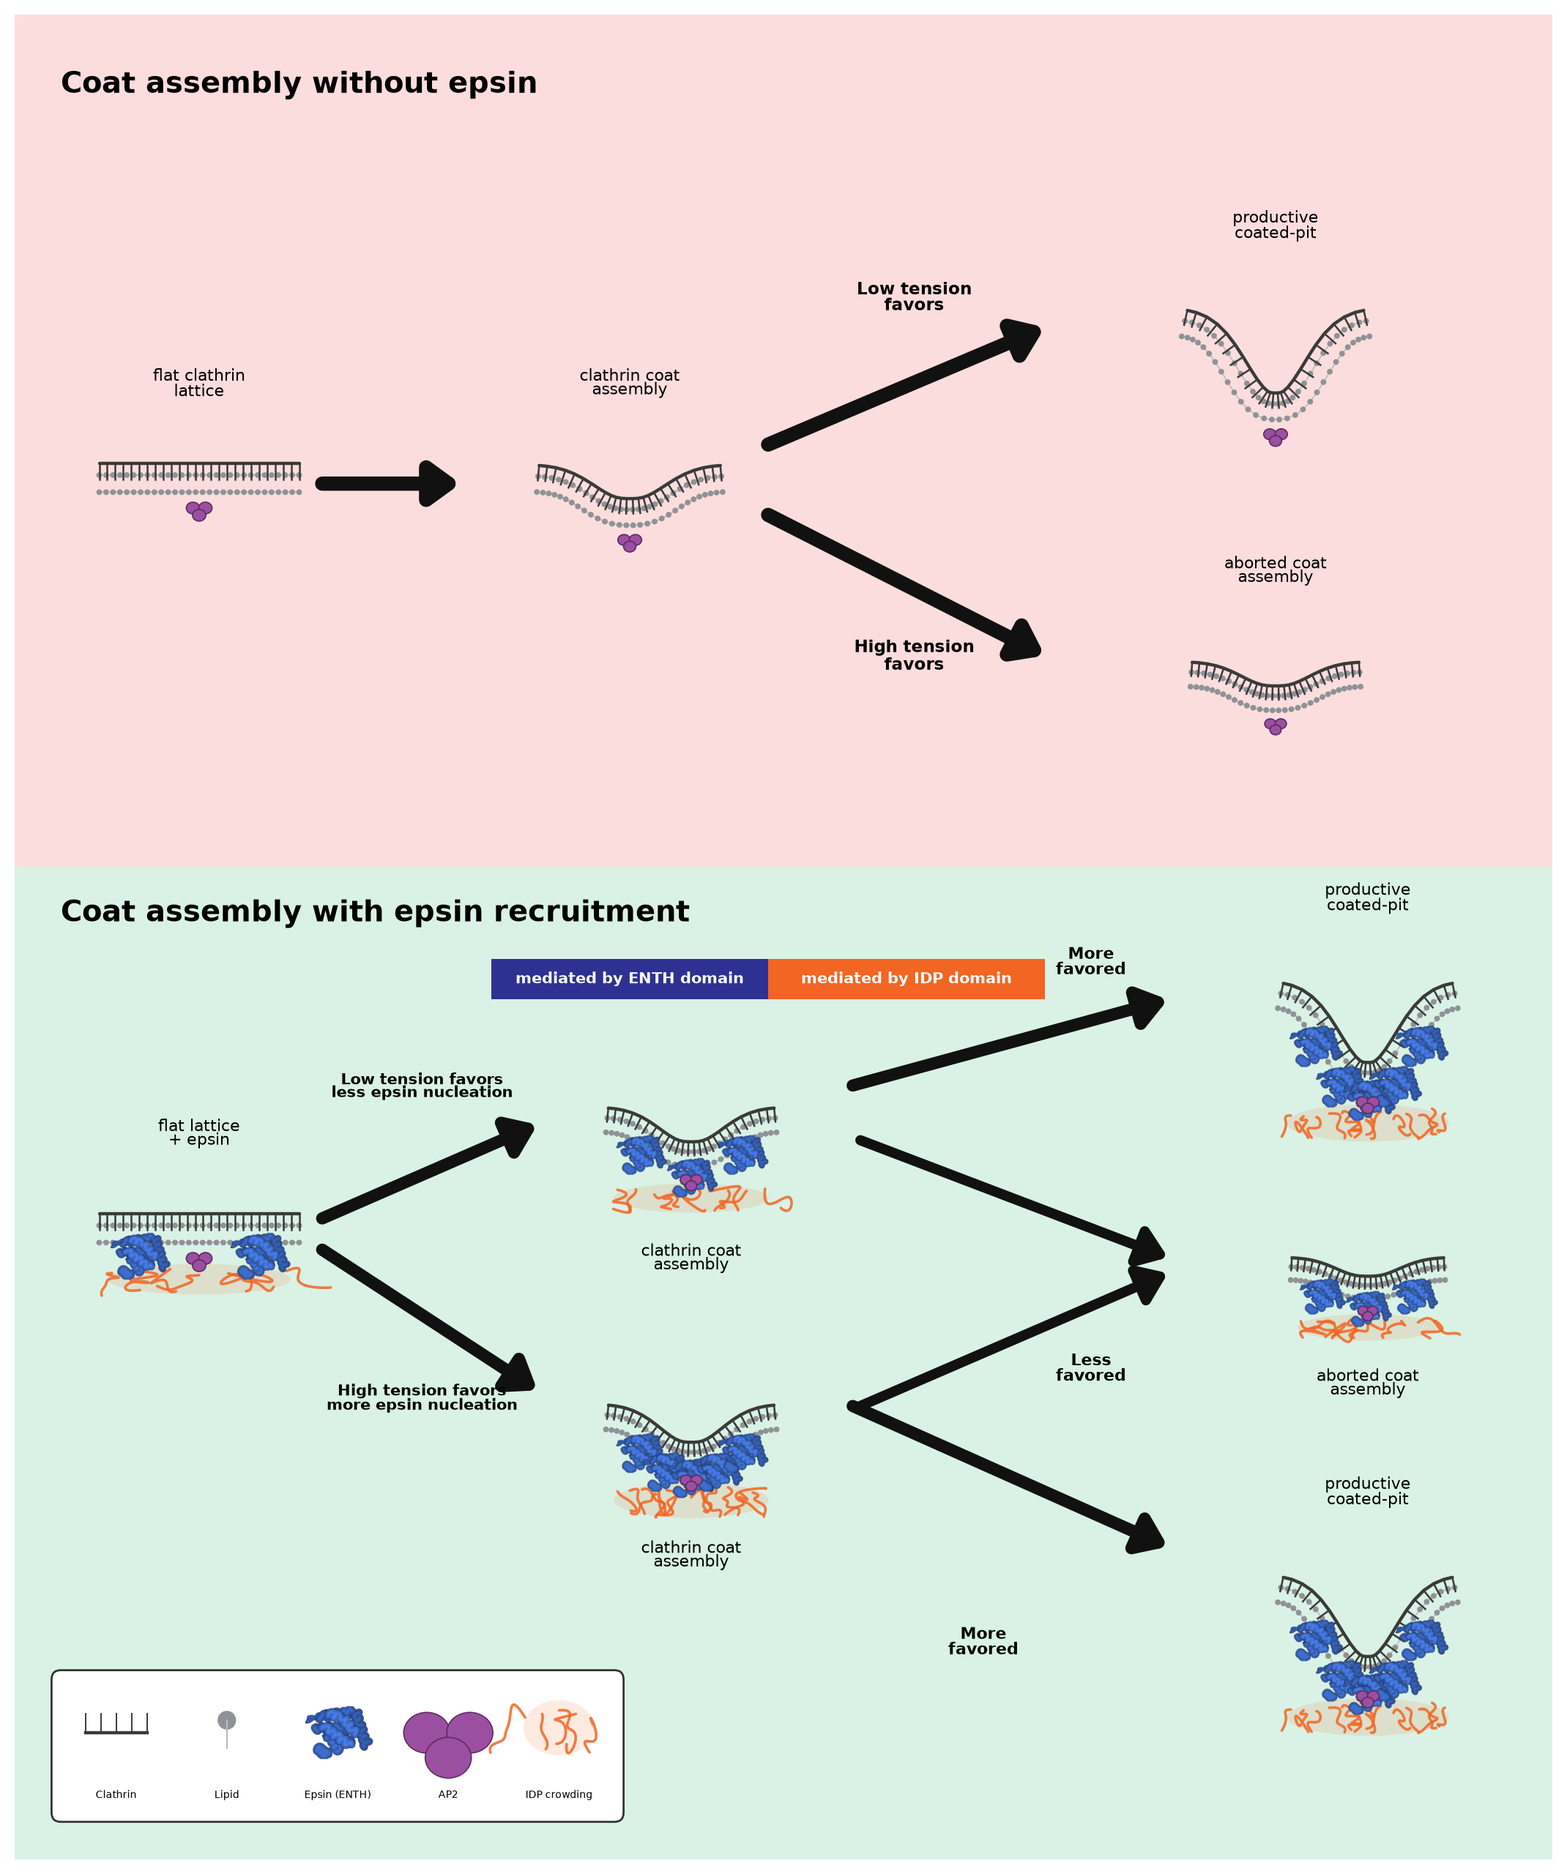
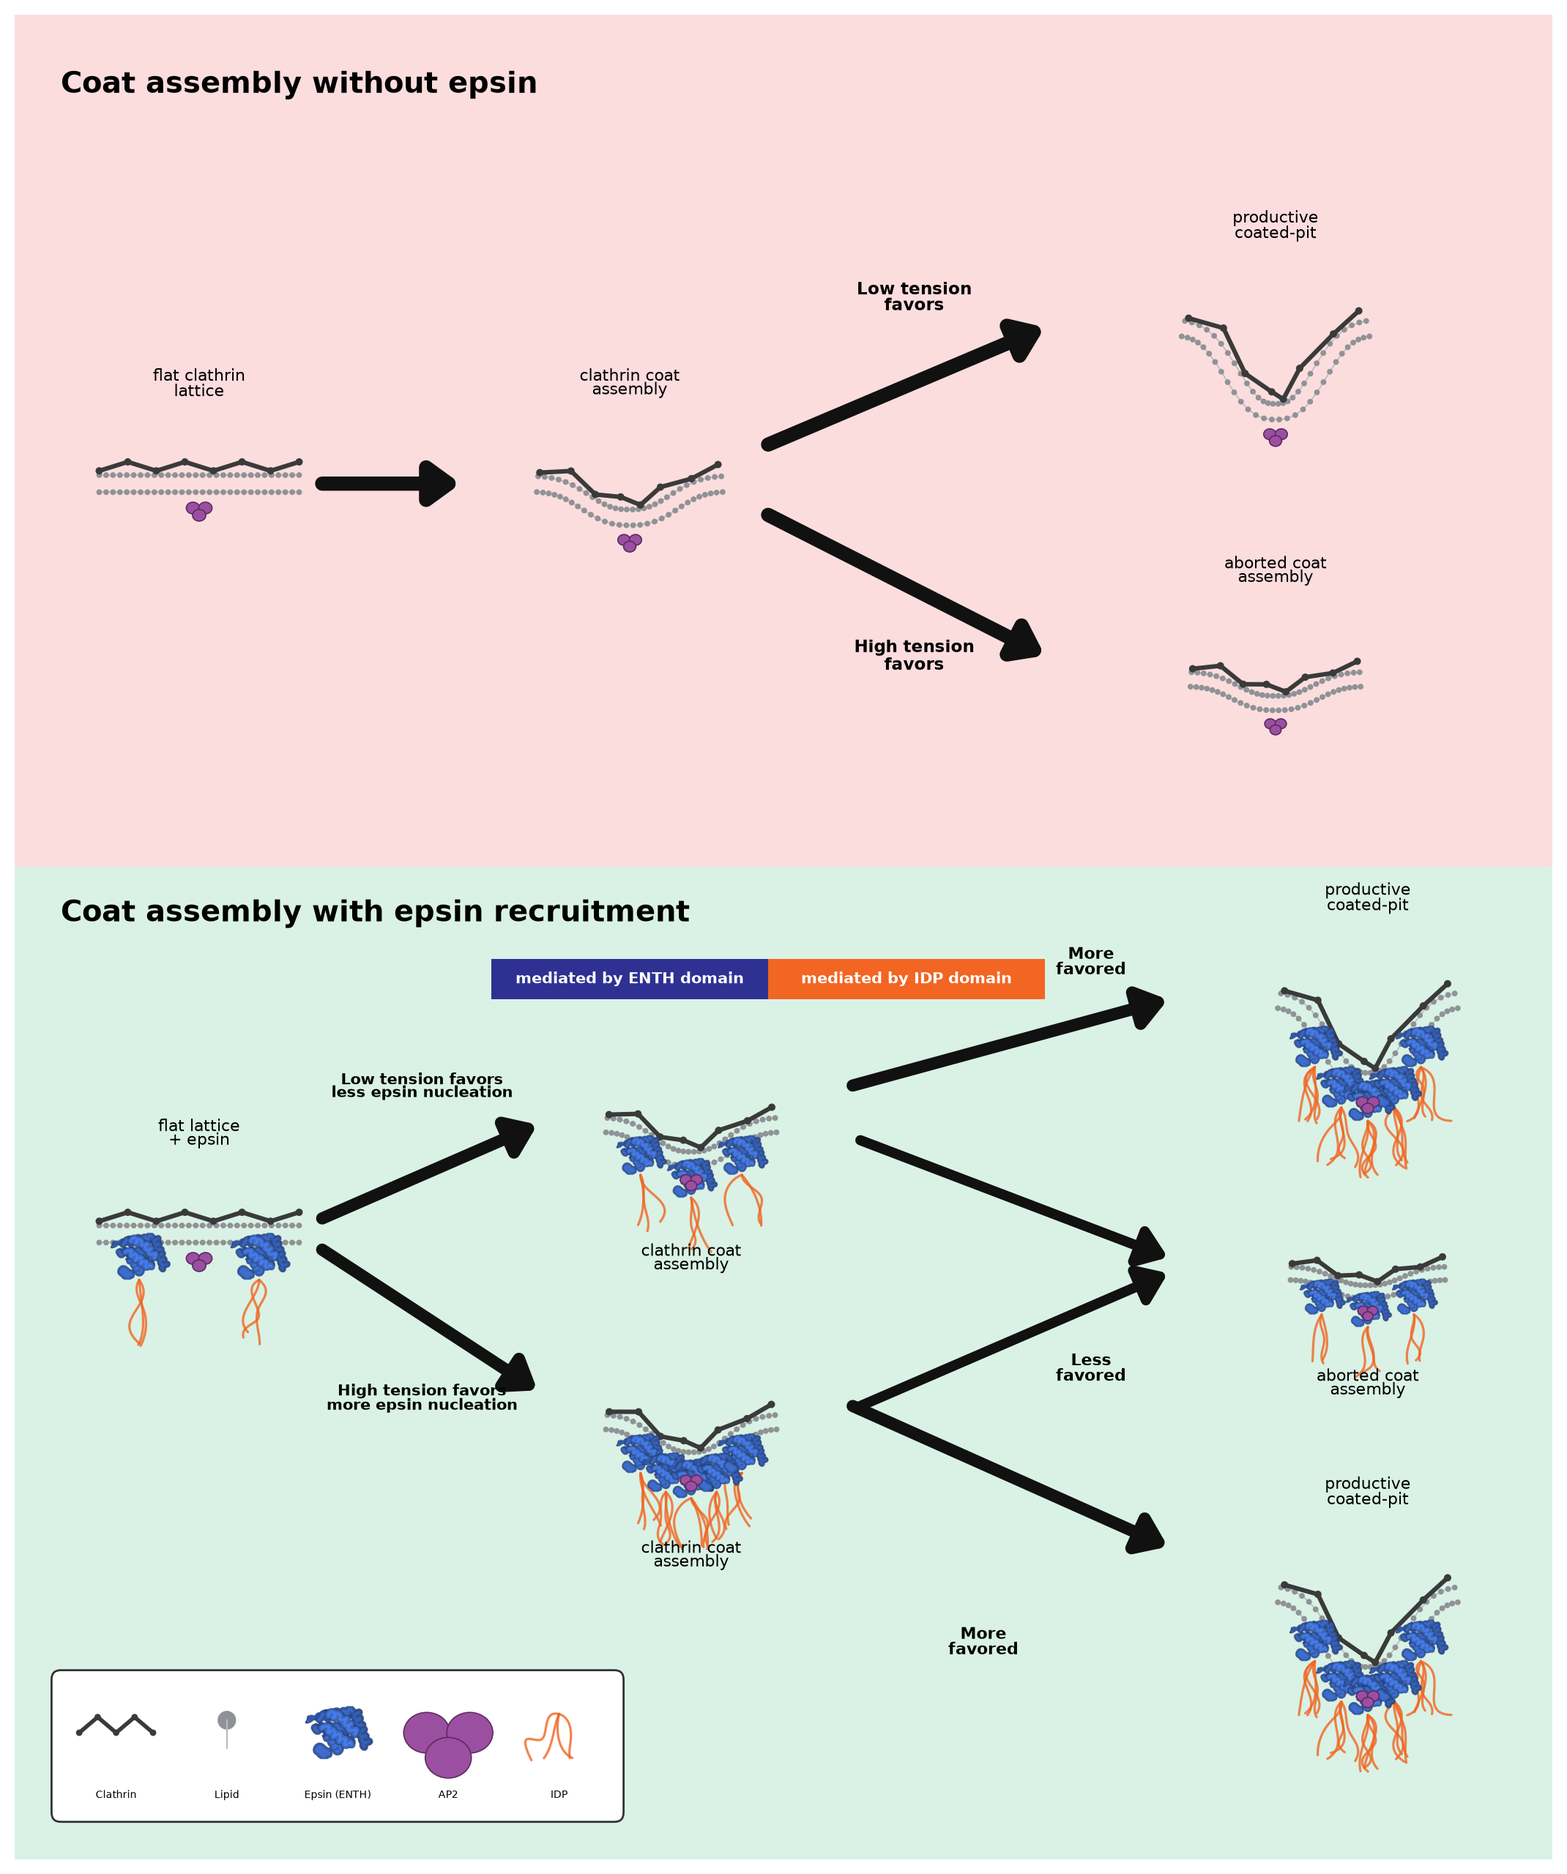
feat: per-molecule IDP + faceted clathrin; add AP180 (ANTH+IDP) figure
Address schematic feedback:
- IDP region now anchored to each folded head (epsin = ENTH+IDP, one molecule),
  drawn as per-molecule crowding chains rather than a detached brush; density
  scales with pit depth / head count (crowding pressure)
- Clathrin redrawn as a faceted lattice: shallow-angle straight segments with
  vertex nodes (edge-of-a-buckyball / geodesic-dome idiom)
- Generalize the renderer to compose_figure(primary, protein, domain); add the
  AP180/CALM analogue (ANTH domain, SNAP91 O60641 AlphaFold, + IDP)
- Both epsin and AP180 figures reproduce from a cold cache; AP180 structure and
  sprite gitignored (re-fetchable, raw-structure firewall)

diff --git a/validation/realdata/schematic_idiom.py b/validation/realdata/schematic_idiom.py
@@ -54,10 +54,13 @@ CARTOON_SOURCES = {
                          note="epsin-1 ENTH domain, X-ray 1H0A"),
     "anth_cartoon": dict(uniprot="Q13492", resrange=(1, 289), color=PAL["anth"],
                          note="PICALM ANTH domain (AlphaFold)"),
+    "anth_ap180_cartoon": dict(uniprot="O60641", resrange=(1, 289), color=PAL["anth"],
+                         note="AP180 (SNAP91) ANTH domain (AlphaFold)"),
 }
 STRUCTURE_URLS = {
     "1H0A":   "https://files.rcsb.org/download/1H0A.pdb",
     "Q13492": "https://alphafold.ebi.ac.uk/files/AF-Q13492-F1-model_v6.pdb",
+    "O60641": "https://alphafold.ebi.ac.uk/files/AF-O60641-F1-model_v6.pdb",
 }
 
 
@@ -182,15 +185,18 @@ def draw_bilayer(ax, cx, cy, w, curv=0.0, neck=False, n=30, z=2):
         ax.scatter(hx, hy, s=8, c=PAL["lipid_head"], edgecolors="none", zorder=z + 0.1)
 
 
-def draw_clathrin_comb(ax, cx, cy, w, curv, neck=False, n=26, z=5):
-    """Supporting cast: simple hatched clathrin comb on the OUTER membrane face."""
-    xs = np.linspace(-w / 2, w / 2, n); yc, nx, ny = _profile(xs, w, curv, neck); off = 0.10 * w
-    bx = cx + xs + nx * off; by = cy + yc + ny * off
-    ax.plot(bx, by, color=PAL["clathrin"], lw=1.6, zorder=z, solid_capstyle="round")
-    for i in range(n):
-        ax.plot([cx + xs[i] + nx[i] * off * 0.2, bx[i]],
-                [cy + yc[i] + ny[i] * off * 0.2, by[i]],
-                color=PAL["clathrin"], lw=0.9, zorder=z - 0.1)
+def draw_faceted_clathrin(ax, cx, cy, w, curv, neck=False, n_facets=8, z=5, color=None, amp=0.022):
+    """Clathrin lattice as straight facet segments meeting at shallow angles -- the
+    edge-of-a-buckyball / geodesic-dome idiom. Vertices alternate in/out along the
+    local normal so the facets read even on a nearly flat lattice."""
+    color = color or PAL["clathrin"]
+    xs = np.linspace(-w / 2, w / 2, n_facets)
+    yc, nx, ny = _profile(xs, w, curv, neck); off = 0.085 * w
+    zz = (np.arange(n_facets) % 2) * 2 - 1          # -1,+1,-1,... zigzag
+    voff = off + zz * amp * w
+    vx = cx + xs + nx * voff; vy = cy + yc + ny * voff
+    ax.plot(vx, vy, color=color, lw=2.2, zorder=z, solid_capstyle="round", solid_joinstyle="round")
+    ax.scatter(vx, vy, s=13, c=color, edgecolors="none", zorder=z + 0.1)
 
 
 def draw_ap2(ax, x, y, s=1.0, z=6):
@@ -201,28 +207,29 @@ def draw_ap2(ax, x, y, s=1.0, z=6):
 
 
 # ================= IDP crowding brush (drawn) =================
-def draw_idp_crowd(ax, x0, x1, ybase, height, n_chains=9, color=None, seed=0, z=4,
-                   alpha_cloud=0.13, direction=-1.0):
-    """Molecular-crowding brush: translucent entropic-pressure cloud + packed disordered chains.
+def draw_idp_from(ax, ax0, ay0, n_chains=4, spread=0.9, length=0.10, color=None,
+                  seed=0, z=4, down=-1.0):
+    """Intrinsically disordered region of ONE molecule, anchored at the folded
+    domain's cytoplasmic end (ax0, ay0) and fanning into the cytoplasm.
 
-    direction=-1 draws the brush BELOW ybase (cytoplasmic face). Chain and cloud
-    density represent the steric/entropic pressure of the disordered region -- the
-    curvature-generating mechanism is crowding, not a single wedge tail.
+    Epsin = ENTH (folded, membrane-binding) + IDP (disordered); AP180/CALM =
+    ANTH + IDP. The IDP is covalently part of the same protein, so its chains
+    emanate from each folded head rather than floating as a detached brush.
+    Curvature is generated by steric crowding of these dense disordered chains.
     """
     color = color or PAL["idp"]
     rng = np.random.default_rng(seed)
-    cx = (x0 + x1) / 2.0
-    ax.add_patch(Ellipse((cx, ybase + direction * height * 0.4), (x1 - x0) * 1.05, height * 1.6,
-                 fc=color, ec="none", alpha=alpha_cloud, zorder=z - 0.2))
-    xs = np.linspace(x0, x1, n_chains)
-    for i, cxi in enumerate(xs):
-        npts = int(rng.integers(5, 8)); t = np.linspace(0, 1, npts)
-        px = cxi + np.cumsum(rng.normal(0, (x1 - x0) / (n_chains * 2.2), npts)); px[0] = cxi
-        py = ybase + direction * height * t + rng.normal(0, height * 0.12, npts)
+    for k in range(n_chains):
+        npts = int(rng.integers(4, 6)); t = np.linspace(0, 1, npts)
+        ang = (k / max(1, n_chains - 1) - 0.5) * spread
+        # drift terminates at ~length; random kinks are a small fraction of length so the
+        # chain stays a compact squiggle near the membrane rather than a long sprawl
+        px = ax0 + np.sin(ang) * length * 0.5 * t + np.cumsum(rng.normal(0, length * 0.10, npts)); px[0] = ax0
+        py = ay0 + down * length * t + rng.normal(0, length * 0.06, npts); py[0] = ay0
         pts = np.column_stack([px, py])
-        sm = _smooth(pts, n=40) if npts >= 4 else pts
-        ax.plot(sm[:, 0], sm[:, 1], color=color, lw=1.3, alpha=0.85,
-                solid_capstyle="round", zorder=z + i * 0.01)
+        sm = _smooth(pts, n=28) if npts >= 4 else pts
+        ax.plot(sm[:, 0], sm[:, 1], color=color, lw=1.15, alpha=0.8,
+                solid_capstyle="round", zorder=z + k * 0.01)
 
 
 # ================= composite node =================
@@ -230,20 +237,21 @@ def node(ax, cx, cy, w, curv, n_eps, neck=False, ap2=True, primary="enth_cartoon
     """Membrane-state cartoon: bilayer + clathrin comb + n_eps cartoon players
     + IDP crowding brush (density ~ n_eps) + AP2 glyph."""
     draw_bilayer(ax, cx, cy, w, curv, neck)
-    draw_clathrin_comb(ax, cx, cy, w, curv, neck)
+    draw_faceted_clathrin(ax, cx, cy, w, curv, neck)
     ew = 0.34 * w
     if n_eps > 0:
         xs = np.linspace(-w * 0.30, w * 0.30, n_eps) if n_eps > 1 else np.array([0.0])
         yc = (_profile(xs, w, curv, neck)[0] if n_eps > 1
               else np.array([_center_depth(w, curv)]))
         for i, ex in enumerate(xs):
-            place_sprite(ax, primary, cx + ex, cy + yc[i] - 0.11 * w, w=ew, z=6)
-        if idp:
-            # crowding brush spans the epsin footprint, on the cytoplasmic (lower) face
-            yb = cy + float(np.min(yc)) - 0.11 * w - ew * 0.22
-            draw_idp_crowd(ax, cx + xs[0] - ew * 0.4, cx + xs[-1] + ew * 0.4, yb,
-                           height=0.07 * w + 0.012 * w * n_eps,
-                           n_chains=max(6, 2 * n_eps + 3), seed=int(abs(cx * 1000) + n_eps), z=4)
+            ay = cy + yc[i] - 0.11 * w
+            place_sprite(ax, primary, cx + ex, ay, w=ew, z=6)
+            if idp:
+                # IDP region of THIS molecule, anchored at its folded-head lower edge.
+                # Denser chains when crowded (deeper pit / more heads) -> crowding pressure.
+                nch = 3 + int(round(min(curv, 0.45) / 0.45)) + (1 if n_eps >= 4 else 0)
+                draw_idp_from(ax, cx + ex, ay - ew * 0.34, n_chains=nch,
+                              length=0.30 * w, spread=0.8, seed=int(abs(cx * 1000) + i), z=4)
     if ap2:
         draw_ap2(ax, cx, cy - 0.12 * w + _center_depth(w, curv), s=w / 0.9, z=7)
 
@@ -255,27 +263,30 @@ def branch_arrow(ax, x0, y0, x1, y1, lw=7, color=None):
                 zorder=3)
 
 
-def legend_box(ax, x, y, w=0.36, h=0.085, primary="enth_cartoon"):
+def legend_box(ax, x, y, w=0.36, h=0.085, primary="enth_cartoon", primary_label="Epsin (ENTH)"):
     ax.add_patch(FancyBboxPatch((x, y), w, h, boxstyle="round,pad=0.006",
                  fc="white", ec="#333", lw=1.0, zorder=10))
-    items = [("Clathrin", "comb"), ("Lipid", "pin"), ("Epsin (ENTH)", "primary"),
-             ("AP2", "ap2"), ("IDP crowding", "crowd")]
+    items = [("Clathrin", "facet"), ("Lipid", "pin"), (primary_label, "primary"),
+             ("AP2", "ap2"), ("IDP", "idp")]
     xs = np.linspace(x + w * 0.10, x + w * 0.90, len(items)); gy = y + h * 0.60
     for (lab, kind), gx in zip(items, xs):
         if kind == "primary":
             place_sprite(ax, primary, gx, gy, w=0.05, z=11)
         elif kind == "ap2":
             draw_ap2(ax, gx, gy, s=0.5, z=11)
-        elif kind == "comb":
-            ax.plot([gx - 0.02, gx + 0.02], [gy, gy], color=PAL["clathrin"], lw=1.6, zorder=11)
-            for tx in np.linspace(gx - 0.02, gx + 0.02, 5):
-                ax.plot([tx, tx], [gy, gy + 0.012], color=PAL["clathrin"], lw=0.7, zorder=11)
+        elif kind == "facet":
+            # short faceted (zigzag) clathrin segment
+            fx = np.linspace(gx - 0.024, gx + 0.024, 5)
+            fy = gy + (np.arange(5) % 2) * 0.010
+            ax.plot(fx, fy, color=PAL["clathrin"], lw=2.0, zorder=11,
+                    solid_capstyle="round", solid_joinstyle="round")
+            ax.scatter(fx, fy, s=10, c=PAL["clathrin"], edgecolors="none", zorder=11.1)
         elif kind == "pin":
             ax.add_patch(Circle((gx, gy + 0.008), 0.006, fc=PAL["lipid_head"], ec="none", zorder=11))
             ax.plot([gx, gx], [gy + 0.008, gy - 0.01], color=PAL["lipid_tail"], lw=0.8, zorder=11)
-        elif kind == "crowd":
-            draw_idp_crowd(ax, gx - 0.022, gx + 0.022, gy + 0.012, height=0.022,
-                           n_chains=5, seed=3, z=11, direction=-1.0)
+        elif kind == "idp":
+            draw_idp_from(ax, gx, gy + 0.012, n_chains=4, length=0.03, spread=1.1,
+                          seed=3, z=11, down=-1.0)
         ax.text(gx, y + h * 0.13, lab, ha="center", va="center", fontsize=5.0, zorder=11)
 
 

diff --git a/validation/realdata/render_schematic_idiom.py b/validation/realdata/render_schematic_idiom.py
@@ -1,10 +1,16 @@
 """
-render_schematic_idiom.py -- compose the epsin/CME decision-tree figure in the
-2020 Comm Bio Fig 7 idiom.
+render_schematic_idiom.py -- compose CME decision-tree figures in the 2020 Comm
+Bio Fig 7 idiom, for a chosen curvature-generating protein.
 
-Primary player (epsin ENTH) is a real secondary-structure cartoon sprite; the
-disordered region is an IDP crowding brush (density ~ epsin count); supporting
-cast (clathrin, AP2) are simple drawn cartoons.
+Each protein is a folded membrane-binding domain (real secondary-structure
+cartoon sprite) plus an intrinsically disordered region drawn as per-molecule
+crowding chains anchored to that domain:
+
+    epsin  = ENTH (RCSB 1H0A)                 + IDP  -> compose_figure("enth_cartoon", "epsin", ...)
+    AP180  = ANTH (AlphaFold SNAP91 O60641)   + IDP  -> compose_figure("anth_ap180_cartoon", "AP180", ...)
+
+Clathrin is a faceted lattice (shallow-angle straight segments, buckyball-edge
+idiom); AP2 is a simple glyph; both are supporting cast.
 
 Run from the repo root:  python -m validation.realdata.render_schematic_idiom
 Sprites build on demand from cache/structures/ (fetched from RCSB / AlphaFold DB).
@@ -15,12 +21,13 @@ import matplotlib.text, matplotlib.image
 from matplotlib.patches import Rectangle
 from validation.realdata import schematic_idiom as si
 
-OUT = os.path.join(os.path.dirname(__file__), "schematic_idiom_epsin.png")
+_HERE = os.path.dirname(__file__)
+OUT_EPSIN = os.path.join(_HERE, "schematic_idiom_epsin.png")
+OUT_AP180 = os.path.join(_HERE, "schematic_idiom_ap180.png")
 
 
 def _overlap_report(fig):
-    """Text-vs-(text+image) overlap check -- catches labels colliding with graphics,
-    which a text-only bbox check misses."""
+    """Text-vs-(text+image) overlap check -- catches labels colliding with graphics."""
     fig.canvas.draw(); r = fig.canvas.get_renderer()
     texts = [(t, t.get_window_extent(r)) for t in fig.findobj(matplotlib.text.Text)
              if t.get_text().strip() and t.get_visible()]
@@ -31,7 +38,13 @@ def _overlap_report(fig):
     return tt, ti
 
 
-def compose(path=OUT, dpi=200):
+def compose_figure(primary, protein, domain, path, dpi=200):
+    """Render the two-panel decision tree for one protein.
+
+    primary  : cartoon sprite name (e.g. 'enth_cartoon', 'anth_ap180_cartoon')
+    protein  : protein name for titles (e.g. 'epsin', 'AP180')
+    domain   : folded-domain label for the header/legend (e.g. 'ENTH', 'ANTH')
+    """
     fig = plt.figure(figsize=(10.5, 12.6))
     ax = fig.add_axes([0, 0, 1, 1]); ax.set_xlim(0, 1); ax.set_ylim(0, 1.18)
     ax.axis("off"); ax.set_aspect("equal")
@@ -41,9 +54,11 @@ def compose(path=OUT, dpi=200):
         ax.text(cx, cy, s, ha="center", va=va, fontsize=fs, zorder=8, linespacing=0.95)
     def lab(cx, cy, s, fs=8.2):
         ax.text(cx, cy, s, ha="center", va="center", fontsize=fs, fontweight="bold", zorder=8, linespacing=0.95)
-    N, A = si.node, si.branch_arrow
-    # TOP: without epsin
-    ax.text(0.03, 1.13, "Coat assembly without epsin", fontsize=14.5, fontweight="bold", zorder=8)
+    def N(ax_, cx, cy, w, curv, n, **kw):
+        si.node(ax_, cx, cy, w, curv, n, primary=primary, **kw)
+    A = si.branch_arrow
+    # TOP: without the protein
+    ax.text(0.03, 1.13, f"Coat assembly without {protein}", fontsize=14.5, fontweight="bold", zorder=8)
     N(ax, 0.12, 0.88, 0.13, 0.0, 0); title(0.12, 0.935, "flat clathrin\nlattice")
     A(ax, 0.20, 0.88, 0.29, 0.88, lw=7)
     N(ax, 0.40, 0.88, 0.12, 0.18, 0); title(0.40, 0.935, "clathrin coat\nassembly")
@@ -51,15 +66,15 @@ def compose(path=OUT, dpi=200):
     A(ax, 0.49, 0.905, 0.67, 0.98, lw=7); A(ax, 0.49, 0.86, 0.67, 0.77, lw=7)
     N(ax, 0.82, 0.98, 0.12, 0.45, 0, neck=True); title(0.82, 1.035, "productive\ncoated-pit")
     N(ax, 0.82, 0.755, 0.11, 0.14, 0); title(0.82, 0.815, "aborted coat\nassembly")
-    # BOTTOM: with epsin
-    ax.text(0.03, 0.60, "Coat assembly with epsin recruitment", fontsize=14.5, fontweight="bold", zorder=8)
+    # BOTTOM: with the protein
+    ax.text(0.03, 0.60, f"Coat assembly with {protein} recruitment", fontsize=14.5, fontweight="bold", zorder=8)
     ax.add_patch(Rectangle((0.31, 0.55), 0.18, 0.026, fc=si.PAL["header_enth"], ec="none", zorder=8))
     ax.add_patch(Rectangle((0.49, 0.55), 0.18, 0.026, fc=si.PAL["header_idp"], ec="none", zorder=8))
-    ax.text(0.40, 0.563, "mediated by ENTH domain", color="white", fontsize=7.4, ha="center", va="center", fontweight="bold", zorder=9)
+    ax.text(0.40, 0.563, f"mediated by {domain} domain", color="white", fontsize=7.4, ha="center", va="center", fontweight="bold", zorder=9)
     ax.text(0.58, 0.563, "mediated by IDP domain", color="white", fontsize=7.4, ha="center", va="center", fontweight="bold", zorder=9)
-    N(ax, 0.12, 0.40, 0.13, 0.0, 2); title(0.12, 0.455, "flat lattice\n+ epsin")
-    lab(0.265, 0.495, "Low tension favors\nless epsin nucleation", 7.4)
-    lab(0.265, 0.295, "High tension favors\nmore epsin nucleation", 7.4)
+    N(ax, 0.12, 0.40, 0.13, 0.0, 2); title(0.12, 0.455, f"flat lattice\n+ {protein}")
+    lab(0.265, 0.495, f"Low tension favors\nless {protein} nucleation", 7.4)
+    lab(0.265, 0.295, f"High tension favors\nmore {protein} nucleation", 7.4)
     A(ax, 0.20, 0.41, 0.34, 0.47, lw=6); A(ax, 0.20, 0.39, 0.34, 0.30, lw=6)
     N(ax, 0.44, 0.47, 0.11, 0.20, 3); title(0.44, 0.395, "clathrin coat\nassembly", va="top")
     N(ax, 0.44, 0.28, 0.11, 0.22, 5); title(0.44, 0.205, "clathrin coat\nassembly", va="top")
@@ -69,7 +84,8 @@ def compose(path=OUT, dpi=200):
     N(ax, 0.88, 0.55, 0.115, 0.45, 5, neck=True); title(0.88, 0.605, "productive\ncoated-pit")
     N(ax, 0.88, 0.375, 0.10, 0.12, 3); title(0.88, 0.315, "aborted coat\nassembly", va="top")
     N(ax, 0.88, 0.17, 0.115, 0.45, 5, neck=True); title(0.88, 0.225, "productive\ncoated-pit")
-    si.legend_box(ax, 0.03, 0.03, 0.36, 0.085)
+    si.legend_box(ax, 0.03, 0.03, 0.36, 0.085, primary=primary,
+                  primary_label=f"{protein.capitalize()} ({domain})")
     tt, ti = _overlap_report(fig)
     if tt or ti:
         import warnings; warnings.warn(f"overlaps: text-text={tt} text-image={ti}")
@@ -78,7 +94,20 @@ def compose(path=OUT, dpi=200):
     return path
 
 
-if __name__ == "__main__":
+def build_all():
     if not os.path.exists(os.path.join(si.SPRITE_DIR, "enth_cartoon.png")):
         si.build_sprites()
-    print("wrote", compose())
+    compose_figure("enth_cartoon", "epsin", "ENTH", OUT_EPSIN)
+    compose_figure("anth_ap180_cartoon", "AP180", "ANTH", OUT_AP180)
+    return [OUT_EPSIN, OUT_AP180]
+
+
+# backward-compatible alias
+OUT = OUT_EPSIN
+def compose(path=OUT_EPSIN, dpi=200):
+    return compose_figure("enth_cartoon", "epsin", "ENTH", path, dpi)
+
+
+if __name__ == "__main__":
+    for p in build_all():
+        print("wrote", p)
